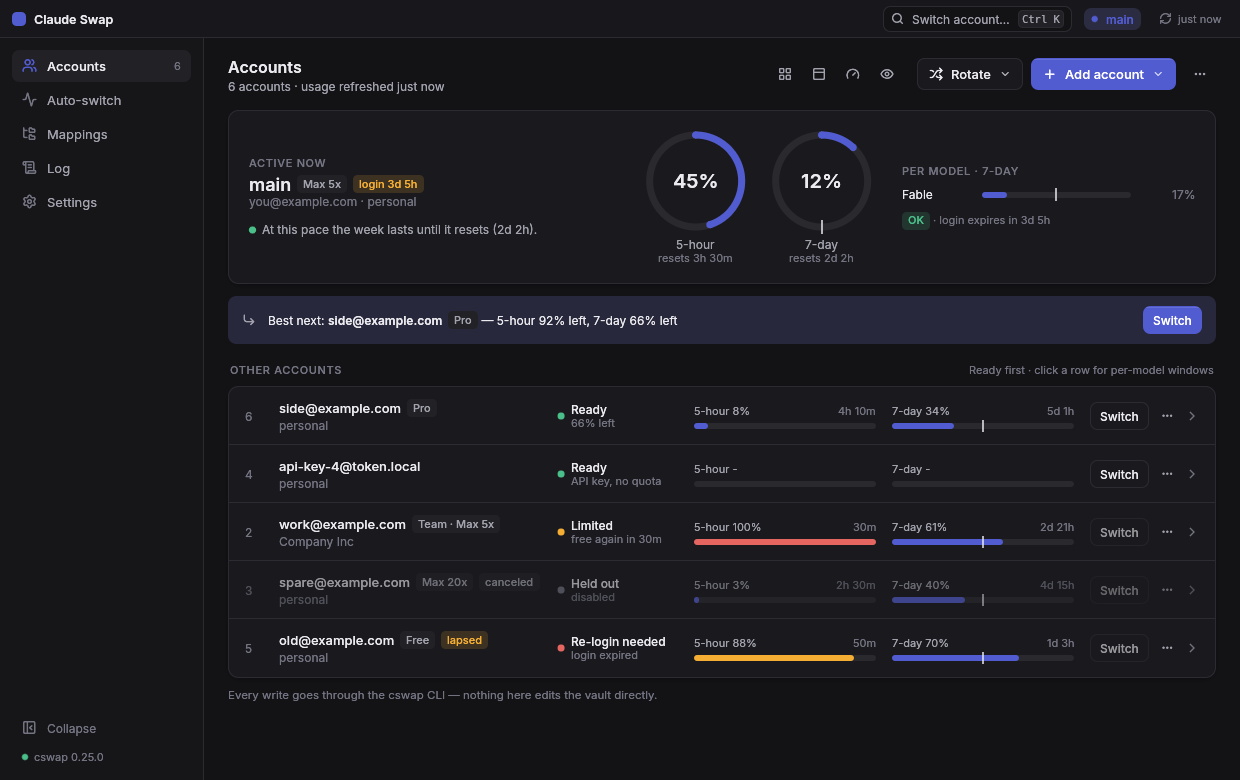
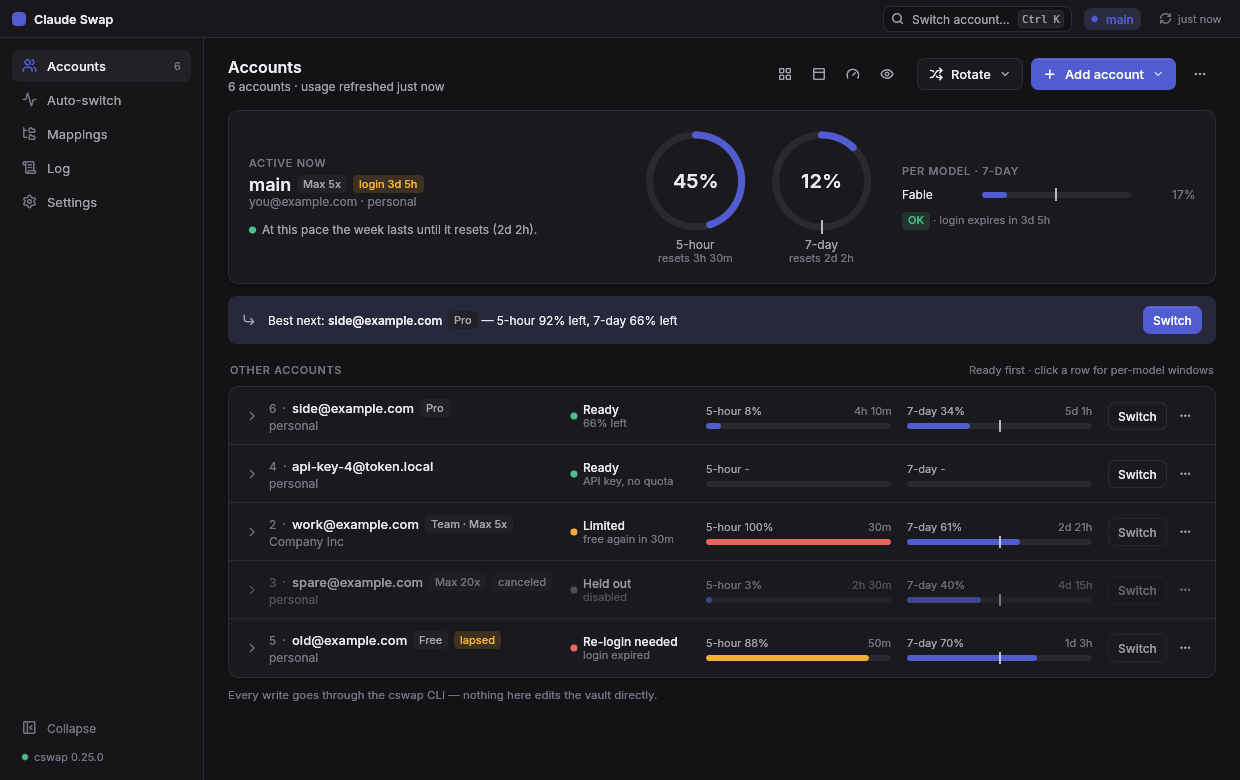
fix(accounts): chevron alone at the left edge; name line reads "6 · email"
Purwa's variant E (PR #9): the expand chevron has the row's left column to
itself and turns 90° as the row opens; the slot number leads the name line,
muted, then a muted dot, the name and the chips; the meta line and any
wrapped chip start flush with the number. Nothing follows ⋯ any more. The
same in the narrow layout. The name column still widens to the widest name
line (number included), so chips do not wrap while there is room.

diff --git a/crates/ui/src/pages/accounts.rs b/crates/ui/src/pages/accounts.rs
@@ -686,9 +686,9 @@ impl AccountsPage {
         r.inner.clicked().then_some(RowAct::Switch)
     }
 
-    /// Width of a row's actions: [`Self::switch_button`], the ⋯ button, the expand chevron.
+    /// Width of a row's actions: [`Self::switch_button`] + 4 + the ⋯ button.
     fn actions_width(ui: &Ui) -> f32 {
-        Button::new("Switch").small().width(ui) + 4.0 + 28.0 + 4.0 + CHEV_W
+        Button::new("Switch").small().width(ui) + 4.0 + 28.0
     }
 
     // ---- rows ------------------------------------------------------------------------
@@ -710,10 +710,13 @@ impl AccountsPage {
         // The name column takes what its widest name line needs (up to leaving the bars 110
         // each), so its chips do not wrap beside an empty readiness column.
         let inner = width - 2.0 - 2.0 * ROW_PAD;
-        let free = inner - NUM_W - READY_W - act_w - 5.0 * GAP;
+        let free = inner - CHEV_W - CHEV_GAP - READY_W - act_w - 4.0 * GAP;
         let need = rows
             .iter()
-            .map(|(a, _)| name_line_width(ui, a, &chips_of(a, state.plans.get(&a.email), p, true)))
+            .map(|(a, _)| {
+                num_prefix_width(ui, a.number)
+                    + name_line_width(ui, a, &chips_of(a, state.plans.get(&a.email), p, true))
+            })
             .fold(0.0, f32::max);
         let share = free * 1.4 / 3.4;
         let name_w = if need > share { need.min(free - 2.0 * BAR_MIN).max(share) } else { share };
@@ -766,8 +769,8 @@ impl AccountsPage {
             row.multiply_opacity(0.6);
         }
         let mut out = None;
-        let x_num = top_left.x + ROW_PAD;
-        let x_name = x_num + NUM_W + GAP;
+        let x_chev = top_left.x + ROW_PAD;
+        let x_name = x_chev + CHEV_W + CHEV_GAP;
         let y0 = top_left.y + 11.0;
         let right = top_left.x + width - ROW_PAD;
         let chips = chips_of(a, plan, p, !narrow);
@@ -775,7 +778,7 @@ impl AccountsPage {
         let name_h = widgets::place(
             &mut row,
             UiBuilder::new().max_rect(Rect::from_min_size(pos2(x_name, y0), vec2(name_w, 400.0))),
-            |ui| name_block(ui, p, a, &chips, style::body_medium(13.0), name_w),
+            |ui| name_block(ui, p, a, Some(n), &chips, style::body_medium(13.0), name_w),
         )
         .inner;
         let bars_h = 26.0;
@@ -786,11 +789,12 @@ impl AccountsPage {
             let h = name_h.max(bars_h).max(34.0);
             (h, y0 + h / 2.0, y0 + (h - bars_h) / 2.0)
         };
-        // the slot number alone on the left: beside it, the chevron read as part of it
-        // (Purwa, PR #9); the chevron sits after ⋯ instead
+        // the expand chevron alone at the left edge, turning 90° as the row opens; not a
+        // button of its own: the whole row is the click target. The slot number leads the
+        // name line (`name_block`). Narrow: beside the name line, wide: the row's middle.
         let turn = row.ctx().animate_bool_with_time(id.with("open"), open, TRANSITION_SECS);
-        let pnt = row.painter().clone();
-        pnt.text(pos2(x_num, line1_mid), Align2::LEFT_CENTER, n.to_string(), style::body(12.0), t.text_3);
+        let chev_y = if narrow { y0 + 10.0 } else { line1_mid };
+        chevron(row.painter(), pos2(x_chev + CHEV_W / 2.0, chev_y), turn, t.text_3);
         // bars
         let u = view::usage_of(a);
         let five = u.and_then(|u| u.five_hour.clone());
@@ -827,10 +831,6 @@ impl AccountsPage {
                 .layout(Layout::right_to_left(Align::Center)),
             |ui| {
                 ui.spacing_mut().item_spacing.x = 4.0;
-                // the expand chevron, far right, turning 90° as the row opens; not a
-                // button of its own: the whole row is the click target
-                let (slot, _) = ui.allocate_exact_size(vec2(CHEV_W, 28.0), Sense::hover());
-                chevron(ui.painter(), slot.center(), turn, t.text_3);
                 let m = self.menu(ui, a);
                 let s = self.switch_button(ui, a, r.kind);
                 m.or(s)
@@ -1058,10 +1058,22 @@ impl AccountsPage {
 /// The mockup's row: 11 px top and bottom, 16 px sides, 16 px gaps, `#` 18, readiness 120.
 const ROW_PAD: f32 = 16.0;
 const GAP: f32 = 16.0;
-const NUM_W: f32 = 18.0;
 const READY_W: f32 = 120.0;
-/// The expand chevron's slot at the right end of a row.
+/// The expand chevron's column at the left edge of a row (Purwa's variant E, PR #9): the
+/// chevron alone there; beside the slot number it read as one glyph ("› 6"), and at the
+/// row's right end, after ⋯, it looked out of place. The number leads the name line.
 const CHEV_W: f32 = 14.0;
+const CHEV_GAP: f32 = 10.0;
+/// Room on each side of the `·` between the slot number and the name.
+const DOT_PAD: f32 = 6.0;
+
+/// Width of a row's `6 · ` before the name.
+fn num_prefix_width(ui: &Ui, n: u32) -> f32 {
+    widgets::measure(ui, &n.to_string(), style::body(12.0)).x
+        + DOT_PAD
+        + widgets::measure(ui, "·", style::body(12.0)).x
+        + DOT_PAD
+}
 /// The bars never get narrower than this to make room for a long name line: `5-hour 100%`
 /// and `2d 21h` side by side still fit.
 const BAR_MIN: f32 = 120.0;
@@ -1166,18 +1178,38 @@ fn name_tooltip(ui: &mut Ui, p: &Paint, a: &Account, rect: Rect) {
 
 /// Name, its chips, and the email / org line under them. A chip goes to a new line only
 /// when it does not fit on the current one. Returns the height used.
-fn name_block(ui: &mut Ui, p: &Paint, a: &Account, chips: &[ChipSpec], font: egui::FontId, w: f32) -> f32 {
+fn name_block(
+    ui: &mut Ui,
+    p: &Paint,
+    a: &Account,
+    num: Option<u32>,
+    chips: &[ChipSpec],
+    font: egui::FontId,
+    w: f32,
+) -> f32 {
     let t = p.t;
     let top = ui.cursor().min;
     let line_h = font.size.max(18.0) + 2.0;
-    let g = widgets::galley(ui, display_name(a, p.mask), font, t.text, w);
-    let name_rect = Rect::from_min_size(pos2(top.x, top.y + (line_h - g.size().y) / 2.0), g.size());
+    // A row's name line reads `6 · name [chips]`, number and dot muted; a wrapped chip
+    // and the meta line start flush with the number (variant E).
+    let lead = if let Some(n) = num {
+        let y = top.y + line_h / 2.0;
+        let pnt = ui.painter();
+        let r = pnt.text(pos2(top.x, y), Align2::LEFT_CENTER, n.to_string(), style::body(12.0), t.text_3);
+        let d = pnt.text(pos2(r.max.x + DOT_PAD, y), Align2::LEFT_CENTER, "·", style::body(12.0), t.text_3);
+        d.max.x + DOT_PAD - top.x
+    } else {
+        0.0
+    };
+    let left = top.x + lead;
+    let g = widgets::galley(ui, display_name(a, p.mask), font, t.text, w - lead);
+    let name_rect = Rect::from_min_size(pos2(left, top.y + (line_h - g.size().y) / 2.0), g.size());
     ui.painter().galley(name_rect.min, g, t.text);
     name_tooltip(ui, p, a, name_rect);
     let (mut x, mut y) = (name_rect.max.x + 6.0, top.y);
     for (i, c) in chips.iter().enumerate() {
         let cw = widgets::chip_width(ui, &c.label);
-        if x + cw > top.x + w && x > top.x {
+        if x + cw > top.x + w && x > left {
             x = top.x;
             y += 22.0;
         }
@@ -1557,7 +1589,7 @@ fn hero_who(ui: &mut Ui, p: &Paint, a: &Account, plan: Option<&PlanInfo>, w: f32
     let nh = widgets::place(
         ui,
         UiBuilder::new().max_rect(Rect::from_min_size(pos2(top.x, top.y + lh + 4.0), vec2(w, 300.0))),
-        |ui| name_block(ui, p, a, &chips, style::body_semibold(18.0), w),
+        |ui| name_block(ui, p, a, None, &chips, style::body_semibold(18.0), w),
     )
     .inner;
     let mut y = top.y + lh + 4.0 + nh;
